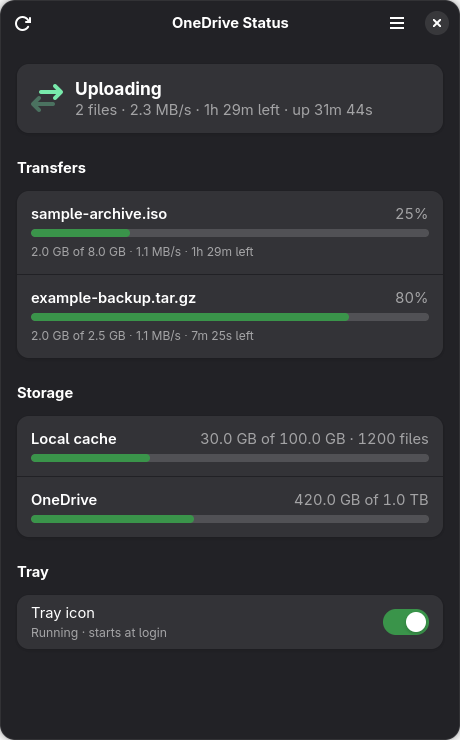
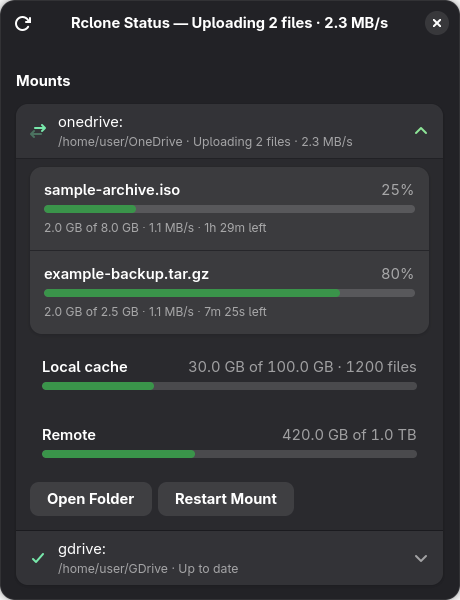
Document multi-mount behaviour
The README describes discovery of every mount, what a mount without
--rc shows and why it is healthy, the module layout, the GTK3/GTK4
process split, the refresh cadences, and migration from
onedrive-status.

The screenshot is rendered from synthetic data and shows one card
expanded and one collapsed, as the app would. The example unit is
generalised, and the app-grid entry no longer describes the app as
OneDrive-specific.

diff --git a/README.md b/README.md
@@ -1,27 +1,38 @@
 # Rclone Status
 
-A GNOME status app for an rclone OneDrive mount — a tray indicator plus a
-GTK4 window showing what is uploading, how full the local cache is, and how
-much OneDrive space is left.
+A GNOME status app for rclone mounts — a tray indicator plus a GTK4 window.
+It discovers every rclone mount running on the machine by reading `/proc`;
+there is no config file naming which mount to watch. Point it at a machine
+with one mount, or five, and it shows a card per mount either way.
 
 ![window](docs/window.png)
 
+The screenshot shows one card expanded (the mount with transfers in
+progress) and one collapsed — that is the app's real default with more than
+one mount: only a lone mount expands itself automatically.
+
 ## What it actually reports
 
-This targets OneDrive mounted with `rclone mount --vfs-cache-mode=full`,
-which is **not** a two-way sync client. Files are
-fetched on demand and local writes queue in a write-back cache that uploads in
-the background. There is no "percent of a mirrored folder synced" to show.
+This targets `rclone mount --vfs-cache-mode=full`, which is **not** a
+two-way sync client. Files are fetched on demand and local writes queue in a
+write-back cache that uploads in the background. There is no "percent of a
+mirrored folder synced" to show.
 
-What matters instead, and what this app displays:
+What matters instead, and what this app displays, per mount:
 
 | Signal | Source |
 |---|---|
 | Files currently uploading, with progress, speed and ETA | `core/stats` |
 | Uploads in progress and queued, cache errors | `vfs/stats` |
 | Local cache usage against `--vfs-cache-max-size` | `vfs/stats` |
-| OneDrive space used and total | `operations/about` |
-| Mount health and uptime | `systemctl --user` + `os.path.ismount` |
+| Remote space used and total | `operations/about` |
+| Mount health and uptime | `systemctl` + `os.path.ismount` |
+
+The window shows one expandable card per mount — collapsed to a one-line
+summary, expanded to the full detail above. The tray shows a single icon for
+the whole machine: whichever mount is in the worst state decides what the
+icon and tooltip show, so a failing mount is never hidden behind healthy
+ones.
 
 Health resolves to one of four states:
 
@@ -30,6 +41,22 @@ Health resolves to one of four states:
 - **degraded** — mounted and running, but the rc API is unreachable
 - **down** — the unit is dead, *or* the FUSE mount vanished while the unit
   still reports active (this happens, and it is just as unusable)
+
+### Mounts without `--rc`
+
+A mount is discovered from `/proc` alone, so it shows up even without the rc
+API enabled — it just has nothing to report beyond "mounted". Its card shows
+**Mounted · no stats (add --rc)** and its health is **ok**, not degraded: not
+exposing `--rc` is a configuration choice, and it stays healthy until it
+actually gives us a reason not to. Compare that to a mount whose `--rc`
+*is* configured but does not answer, which is treated as **degraded** — that
+port not responding is a fault, not a choice.
+
+To get stats, add `--rc --rc-addr=127.0.0.1:PORT --rc-no-auth` to the
+mount's own command line (see `data/rclone-mount.service.example`). Running
+several mounts needs a distinct port per mount; discovery reads whatever
+port each mount's own process was started with, so they never need to agree
+on one.
 
 ## Install
 
@@ -72,44 +99,62 @@ Uninstall: delete `~/.local/share/applications/dev.matheoatche.RcloneStatus.desk
 then `systemctl --user disable --now rclone-status-tray.service` and delete
 `~/.config/systemd/user/rclone-status-tray.service`.
 
-Versions before this used a `~/.config/autostart` entry for the tray;
-`install.sh` removes it on upgrade so the tray cannot be started twice.
-
 ## Layout
 
-    rcstatus/probe.py   data layer: rc API + systemd -> Snapshot. No GUI imports.
-    rcstatus/service.py tray unit lifecycle (enable/disable/state). No GUI imports.
-    rcstatus/window.py  GTK4 + libadwaita window.
-    rcstatus/tray.py    GTK3 + AppIndicator3 tray daemon.
+    rcstatus/discovery.py finds every rclone mount by reading /proc. No GUI imports.
+    rcstatus/probe.py     polls one mount: rc API + systemd -> MountSnapshot. No GUI imports.
+    rcstatus/poller.py    MultiProbe: discovery + per-mount polling. No GUI imports.
+    rcstatus/aggregate.py combines per-mount snapshots into one machine-wide SystemSnapshot.
+    rcstatus/service.py   tray unit lifecycle (enable/disable/state). No GUI imports.
+    rcstatus/window.py    GTK4 + libadwaita window.
+    rcstatus/tray.py      GTK3 + AppIndicator3 tray daemon.
+
+Everything above `window.py`/`tray.py` is GUI-free by design: the window and
+the tray are two different, mutually incompatible GTK major versions, and
+both need the same discovery and polling logic, so that logic cannot import
+either of them.
 
 **Why two processes.** `AppIndicator3` links against GTK3, and one Python
 process cannot load GTK 3 and GTK 4 together — importing both raises
 `ImportError: Requiring namespace 'Gtk' version '3.0', but '4.0' is already
-loaded`. The tray therefore launches the window as a subprocess. Both import
-`probe.py`, and either runs standalone.
+loaded`. The tray therefore launches the window as a subprocess when asked to
+open it. Both import `poller.MultiProbe`, and either runs standalone.
 
-**Polling.** Transfer and cache stats poll every 2s; they are loopback calls
-and effectively free. `operations/about` is a live request to Microsoft, so it
-is cached for 60s to stay clear of API rate limits. That split is the main
-reason the data layer is its own module.
+**Discovery and polling cadence.** Mounts are rediscovered every 10s —
+walking `/proc` and matching processes to `/proc/mounts` entries is far more
+expensive than a stats call, and mounts change rarely. Rediscovery also
+happens sooner, but no more often than that same 10s floor, whenever a mount
+stops answering: it may have restarted under a new pid or rc port, and
+without the floor a merely-unreachable mount would make every tick re-walk
+`/proc` and re-poll every other mount too. Transfer and cache stats
+(`core/stats`, `vfs/stats`) poll every 2s per mount; they are loopback calls
+and effectively free. `operations/about` (remote quota) is cached for 60s
+per mount, because unlike the other two it is a live call to the storage
+provider, not a local one, and polling it every 2s would risk hitting the
+provider's own rate limits for no benefit.
 
-**Failure handling.** A failed poll never raises — it returns a `Snapshot`
-describing the failure, because "the mount is down" is the state most worth
-displaying correctly.
+**Restart.** The restart button only appears for a mount whose owning
+systemd unit is a **user** unit (`Mount.can_restart` in `discovery.py`).
+Restarting a system unit needs privilege this app does not ask for and
+should not need, so a system-unit mount is shown without one.
 
-## Configuration
+**Failure handling.** A failed poll never raises — it returns a
+`MountSnapshot` describing the failure, because "the mount is down" is the
+state most worth displaying correctly.
 
-Environment variables, all with working defaults:
+## Migrating from onedrive-status
 
-| Variable | Default |
-|---|---|
-| `RCSTATUS_RC_ADDR` | `127.0.0.1:5572` |
-| `RCSTATUS_UNIT` | `rclone-onedrive.service` |
-| `RCSTATUS_MOUNT` | `~/OneDrive` |
-| `RCSTATUS_REMOTE` | `onedrive:` |
+This project was renamed from `onedrive-status`, which watched exactly one
+configured OneDrive mount. `install.sh` handles the upgrade automatically:
+on first run under the new name it disables and removes the old
+`onedrive-status-tray.service` unit and the old desktop launcher, then
+installs the new ones. If the tray was disabled before, it stays disabled
+after migrating — install.sh reads the old unit's `enabled` state before
+touching anything, since a freshly written unit always reports `disabled`
+and cannot otherwise be told apart from one the user turned off on purpose.
 
-The mount must run with `--rc --rc-addr=127.0.0.1:5572 --rc-no-auth`. A
-matching systemd user unit is included at `data/rclone-onedrive.service.example`.
+Nothing needs migrating on the mount side: any existing `rclone mount --rc`
+unit is picked up by discovery as-is, whatever it is named.
 
 ## Tests
 
@@ -118,11 +163,12 @@ python3 -m venv --system-site-packages .venv && .venv/bin/pip install pytest
 .venv/bin/python -m pytest tests/ -q
 ```
 
-`probe.py` is a pure function over JSON, tested against synthetic fixtures
-shaped like real rc API responses mid-upload. The launcher tests start both
-entry points from several working directories and through a symlink.
-`--system-site-packages` lets the venv see the system PyGObject; the app
-itself needs no venv and no third-party packages.
+`discovery.py` and `probe.py` are pure functions over `/proc` text and JSON,
+tested against synthetic fixtures shaped like real rc API responses
+mid-upload. The launcher tests start both entry points from several working
+directories and through a symlink. `--system-site-packages` lets the venv
+see the system PyGObject; the app itself needs no venv and no third-party
+packages.
 
 ## Requirements
 
